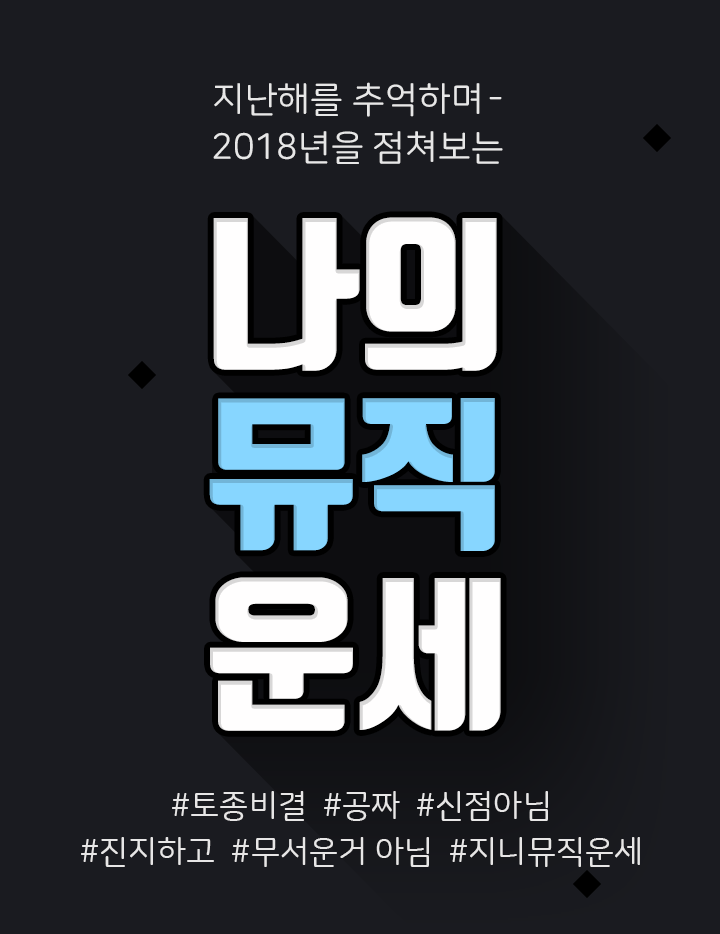
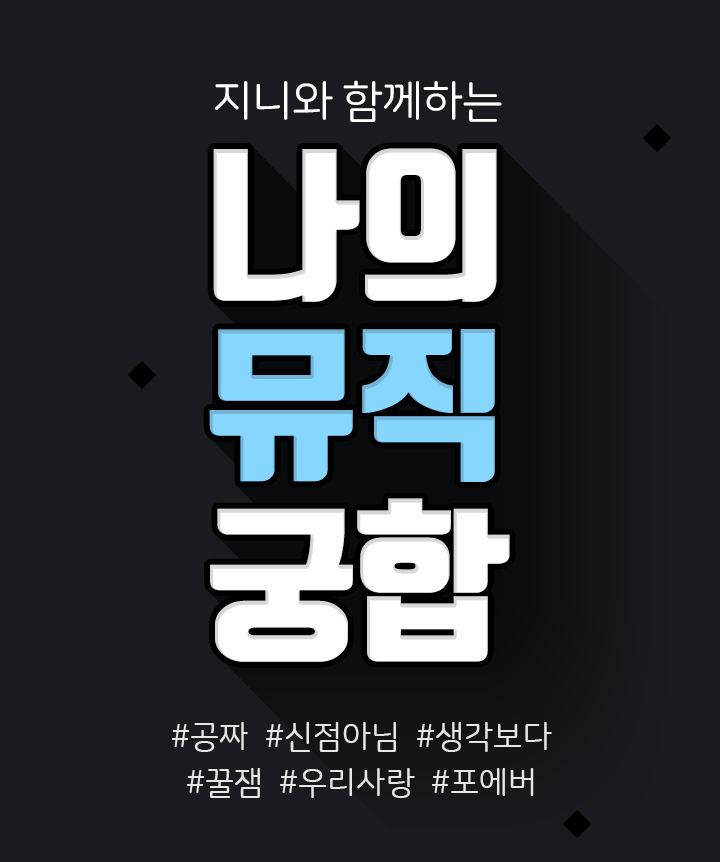
event

diff --git a/css/style.css b/css/style.css
@@ -17,10 +17,10 @@ button::-moz-focus-inner {padding:0;border:0}
 .line-black{border-bottom:1px solid #27282d; line-height:110%;}
 .line-red{border-bottom:1px solid #ff5b62; line-height:110%;}
 .pd20{padding-bottom:20%;}
-button{background:#27282d; border-radius:25px; font-size:16px; line-height:45px; width:100%; color:#fff}
-.ico,
-.music_list .btnarea li button em:after
-{background:url(../img/ico.png) no-repeat 0 0px; background-size:150px; }
+.basic_btn{background:#27282d; border-radius:25px; font-size:16px; line-height:45px; width:100%; color:#fff}
+.basic_btn em{position:relative; padding-right:20px}
+.basic_btn em:after{background:url(../img/ico.png) no-repeat -48px 0; background-size:150px; content:""; position:absolute; right:0; top:2px; width:14px; height:15px;}
+.ico{background:url(../img/ico.png) no-repeat 0 0px; background-size:150px; }
 
 /*	font 설정	*/
 @font-face {
@@ -76,7 +76,9 @@ button{background:#27282d; border-radius:25px; font-size:16px; line-height:45px;
 .star li:nth-child(8){top:69%; left:88%;}
 .star li em{background-position:-22px 0; width:19px; height:16px; display:block; opacity:0;}
 
-section h2{color:#27282d; font-size:25px; text-align:center; padding:0 0 10px; line-height:30px; font-family:NanumSquareB}
+section h2{color:#27282d; font-size:25px; text-align:center; padding:0 0 15px; line-height:33px; font-family:NanumSquareB}
+.before_login{border:3px solid #1a1b20; background:#fff; border-radius:20px; padding:90px 0; text-align:center; font-size:17px; font-family:NanumSquareB}
+.before_login .btnarea{width:157px; margin:0 auto; padding-top:15px}
 
 /* swiper */
 .swiper-container{position:relative;overflow:hidden; z-index:1}
@@ -94,7 +96,7 @@ section h2{color:#27282d; font-size:25px; text-align:center; padding:0 0 10px; l
 .swiper-pagination-bullet-active {width:16px; background:#000;opacity:1; border-radius:20px}
 
 /* top10 */
-.music_list{background:#fff5a1; padding:30px 18px}
+.music_list{background:#fff5a1; padding:40px 18px}
 .music_list .mymusic{border:3px solid #1a1b20; background:#fff; border-radius:20px; padding:8px 0}
 .top10{padding-left:35px; }
 .top10 li{position:relative;height:60px;border-top:1px solid #e9e9e9; padding:0 60px 0 56px;}
@@ -110,26 +112,31 @@ section h2{color:#27282d; font-size:25px; text-align:center; padding:0 0 10px; l
 .music_list .btnarea:after{content:""; display:block; clear:both}
 .music_list .btnarea li{width:50%; float:left; padding-left:4px; box-sizing: border-box;}
 .music_list .btnarea li:first-child{width:50%; float:left; padding:0 4px 0 0;}
-.music_list .btnarea li button em{padding-right:20px; position:relative;}
-.music_list .btnarea li button em:after{background-position:-48px 0; width:13px; height:15px; position:absolute; right:0; top:1px; content:""; }
 .music_list .txt{font-size:13px; text-align:center; padding-top:25px}
 
 /* artist */
-.artist_list{background:#db4a37; padding:30px 0; position:relative;}
+.artist_list.pd{padding:40px 18px}
+.artist_list{background:#db4a37; padding:40px 0; position:relative;}
 .artist_list h2{color:#fff}
-.artist{padding-top:10px}
-.artist li{text-align:center; }
-.artist li .area{width:230px; margin:0 auto; }
-.artist li .thum .win{position:absolute; left:-15px; top:115px; width:210px; height:62px; background:url('../img/ribbon.png') no-repeat 0 0; background-size:100%; text-indent:-9999em; font-weight:normal; opacity:0;filter:progid:DXImageTransform.Microsoft.Alpha(Opacity=0);-webkit-transition:none;transition:none}
-.artist li.swiper-slide-active .win{opacity:1;filter:progid:DXImageTransform.Microsoft.Alpha(Opacity=100); -webkit-transition:opacity 0.5s, ease 0.3s;transition:opacity 0.5s, ease 0.3s;}
-.artist li .thum{width:170px; display:block; margin:0 30px; position:relative;}
-.artist li .thum img{width:164px; height:164px; border: 3px solid #1a1b20; border-radius:50%; }
-.artist li .thum:after{position:absolute; left:0px; top:0px; border-radius:50%; width:100%; height:100%; content:""; background:rgba(0,0,0,0.4); }
-.artist li.swiper-slide-active .thum:after{background:rgba(0,0,0,0);}
-.artist li .thum .num{z-index: 1; width:54px; line-height:54px; background:#fff5a1; font-size:18px; border: 3px solid #1a1b20; border-radius:50%; position:absolute; left:-12px; top:-10px; text-align:center; font-family: NanumSquareB; display:block; opacity:0;filter:progid:DXImageTransform.Microsoft.Alpha(Opacity=0);-webkit-transition:none;transition:none}
-.artist li.swiper-slide-active .num{top:0; opacity:1;filter:progid:DXImageTransform.Microsoft.Alpha(Opacity=100); -webkit-transition:opacity 0.5s, top 0.3s ease;transition:opacity 0.5s, top 0.3s ease;}
+.best_artist{padding-top:10px}
+.best_artist li{text-align:center; }
+.best_artist li .area{width:230px; margin:0 auto; }
+.best_artist li .thum .win{position:absolute; left:-15px; top:115px; width:210px; height:62px; background:url('../img/ribbon.png') no-repeat 0 0; background-size:100%; text-indent:-9999em; font-weight:normal; opacity:0;filter:progid:DXImageTransform.Microsoft.Alpha(Opacity=0);-webkit-transition:none;transition:none}
+.best_artist li.swiper-slide-active .win{opacity:1;filter:progid:DXImageTransform.Microsoft.Alpha(Opacity=100); -webkit-transition:opacity 0.5s, ease 0.3s;transition:opacity 0.5s, ease 0.3s;}
+.best_artist li .thum{width:170px; display:block; margin:0 30px; position:relative;}
+.best_artist li .thum img{width:164px; height:164px; border: 3px solid #1a1b20; border-radius:50%; }
+.best_artist li .thum:after{position:absolute; left:0px; top:0px; border-radius:50%; width:100%; height:100%; content:""; background:rgba(0,0,0,0.4); }
+.best_artist li.swiper-slide-active .thum:after{background:rgba(0,0,0,0);}
+.best_artist li .thum .num{z-index: 1; width:54px; line-height:54px; background:#fff5a1; font-size:18px; border: 3px solid #1a1b20; border-radius:50%; position:absolute; left:-12px; top:-10px; text-align:center; font-family: NanumSquareB; display:block; opacity:0;filter:progid:DXImageTransform.Microsoft.Alpha(Opacity=0);-webkit-transition:none;transition:none}
+.best_artist li.swiper-slide-active .num{top:0; opacity:1;filter:progid:DXImageTransform.Microsoft.Alpha(Opacity=100); -webkit-transition:opacity 0.5s, top 0.3s ease;transition:opacity 0.5s, top 0.3s ease;}
 
-.artist li strong{display:block; padding-top:50px; color:#ffffff; font-size:17px; opacity:0;filter:progid:DXImageTransform.Microsoft.Alpha(Opacity=0);-webkit-transition:none;transition:none}
-.artist li.swiper-slide-active strong{opacity:1;filter:progid:DXImageTransform.Microsoft.Alpha(Opacity=100); -webkit-transition:opacity 1s, ease 1.3s;transition:opacity 1s, ease 1.3s;}
-.artist li strong em{color:#fff5a1}
-.artist_list .swiper-pagination{position:absolute; top:290px;}
+.best_artist li strong{display:block; padding:50px 0 60px; color:#ffffff; font-size:17px; opacity:0;filter:progid:DXImageTransform.Microsoft.Alpha(Opacity=0);-webkit-transition:none;transition:none; line-height: 24px;}
+.best_artist li.swiper-slide-active strong{opacity:1;filter:progid:DXImageTransform.Microsoft.Alpha(Opacity=100); -webkit-transition:opacity 1s, ease 1.3s;transition:opacity 1s, ease 1.3s;}
+.best_artist li strong em{display:inline-block; color:#fff5a1; line-height:24px; max-width: 172px; overflow:hidden; white-space: nowrap; text-overflow:ellipsis; -o-text-overflow:ellipsis; -ms-text-overflow:ellipsis; -moz-text-overflow:ellipsis; }
+.artist_list .swiper-pagination{position:absolute; top:340px;}
+.best_artist li .basic_btn{position:absolute; left:0px; bottom:0px; opacity:0;filter:progid:DXImageTransform.Microsoft.Alpha(Opacity=0);-webkit-transition:none;transition:none}
+.best_artist li.swiper-slide-active .basic_btn{opacity:1;filter:progid:DXImageTransform.Microsoft.Alpha(Opacity=100); -webkit-transition:opacity 1s, ease 1s;transition:opacity 1s, ease 1s;}
+
+/* season */
+.season{background:#403967; padding:40px 18px; position:relative;}
+.season h2{color:#fff}

diff --git a/index.html b/index.html
@@ -27,20 +27,21 @@
 		<li class="ico"><em class="ico"></em></li>
 	</ul>
 	<ul class="tab">
-		<li class="on"><a href="javascript:///">나의 뮤직 운세</a></li>
-		<li><a href="javascript:///">전체회원 뮤직운세</a></li>
+		<li class="on"><a href="javascript:///">나의 뮤직 궁합</a></li>
+		<li><a href="javascript:///">전체회원 뮤직궁합</a></li>
 	</ul>
 </section>
 
 <!-- TOP10 비로그인 -->
 <section class="music_list">
 	<h2>가만보쟈~ genie***님!<br />2017년에 이 곡 많이 들으셨죠?</h2>
-	<div class="mymusic">
-	어서와 지니는 처음이지?^^<br />지니는 2018년도 회원님의 활동을<br />응원합니다! 완!전!
+	<div class="before_login">
+		어서와 지니는 처음이지?^^<br />지니는 2018년도 회원님의 활동을<br />응원합니다! 완!전!
+		<div class="btnarea"><button class="basic_btn"><em>전체재생</em></div>
 	</div>
 </section>
 
-<!-- TOP10 로그인 -->
+<!-- TOP10 -->
 <section class="music_list">
 	<h2>가만보쟈~ genie***님!<br />2017년에 이 곡 많이 들으셨죠?</h2>
 	<div class="swiper-container mymusic">		
@@ -127,7 +128,7 @@
 					<li>
 						<em>9</em>
 						<a href="#" class="info">
-							<span class="thum"><img src="//image.genie.co.kr/Y/IMAGE/IMG_ARTIST/080/221/635/80221635_9_600x600.JPG" alt=""></span>
+							<span class="thum"><img src="///image.genie.co.kr/Y/IMAGE/IMG_ARTIST/041/719/277/41719277_8_600x600.JPG" alt=""></span>
 							<span class="title">곡명리스트곡명</span>
 							<span class="artist">아티스트명</span>
 						</a>
@@ -148,17 +149,26 @@
 	</div>
 	<div class="swiper-pagination"></div>
 	<ul class="btnarea">
-		<li><button><em>전체재생</em></button></li>
-		<li><button>마이앨범에 저장</button></li>
+		<li><button class="basic_btn"><em>전체재생</em></button></li>
+		<li><button class="basic_btn">마이앨범에 저장</button></li>
 	</ul>
 	<p class="txt">마이앨범에 저장 버튼을 선택하시면,<br />최대 100곡까지 확인 가능합니다. </p>
 </section>
-<!--// TOP10 로그인 -->
+<!--// TOP1 -->
+
+<!-- 아티스트 비로그인 -->
+<section class="artist_list pd">
+	<h2>2017년 genie***님의<br />덕력을 자극한 아티스트는<br />이분들 아닙니까?</h2>
+	<div class="before_login">
+		어서와 지니는 처음이지?^^<br />지니는 2018년도 회원님의 활동을<br />응원합니다! 완!전!
+		<div class="btnarea"><button class="basic_btn"><em>전체재생</em></div>
+	</div>
+</section>
 
 <!-- 아티스트 -->
 <section class="artist_list">
-	<h2>덕력을 자극한 아티스트는<br />이분들 아닙니까?</h2>
-	<div class="swiper-container artist">		
+	<h2>2017년 genie***님의<br />덕력을 자극한 아티스트는<br />이분들 아닙니까?</h2>
+	<div class="swiper-container best_artist">		
 		<ul class="swiper-wrapper">
 			<!-- Slides -->
 			<li class="swiper-slide">
@@ -168,31 +178,39 @@
 						<img src="//image.genie.co.kr/Y/IMAGE/IMG_ARTIST/080/220/847/80220847_13_600x600.JPG" alt="">
 						<span class="win">완전소듕!!</span>
 					</span>
-					<strong>오호라!! <em>Wanna One (워너원)~!!!</em><br />genie***님이랑 케미가 좋네!!!<br />새해에도 격하게 아끼면 좋을듯!!</strong>
+					<strong>오호라!! <em>팀명이 얼마나 길까요 나는 몰라요~!!!</em><br />genie***님이랑 케미가 좋네!!!<br />새해에도 격하게 아끼면 좋을듯!!</strong>
+					<button class="basic_btn"><em>아티스트 인기곡 재생</em></button>
 				</div>
 			</li>
 			<li class="swiper-slide">
 				<div class="area">
 					<span class="thum">
 						<em class="num">2위</em>
-						<img src="//image.genie.co.kr/Y/IMAGE/IMG_ARTIST/080/221/635/80221635_9_600x600.JPG" alt="">
+						<img src="//image.genie.co.kr/Y/IMAGE/IMG_ARTIST/041/719/277/41719277_8_600x600.JPG" alt="">
 					</span>
 					<strong>오호라!! <em>Wanna One (워너원)~!!!</em><br />genie***님이랑 케미가 좋네!!!<br />새해에도 격하게 아끼면 좋을듯!!</strong>
+					<button class="basic_btn"><em>아티스트 인기곡 재생</em></button>
 				</div>
 			</li>
 			<li class="swiper-slide">
 				<div class="area">
 					<span class="thum">
 						<em class="num">3위</em>
-						<img src="//image.genie.co.kr/Y/IMAGE/IMG_ARTIST/080/221/635/80221635_9_600x600.JPG" alt="">
+						<img src="//image.genie.co.kr/Y/IMAGE/IMG_ARTIST/041/719/277/41719277_8_600x600.JPG" alt="">
 					</span>
 					<strong>오호라!! <em>Wanna One (워너원)~!!!</em><br />genie***님이랑 케미가 좋네!!!<br />새해에도 격하게 아끼면 좋을듯!!</strong>
+					<button class="basic_btn"><em>아티스트 인기곡 재생</em></button>
 				</div>
 			</li>
-		</ul>    
+		</ul>
 	</div>
-	<div class="swiper-pagination"></div>   
+	<div class="swiper-pagination"></div>
 </section>
+
+<!-- 계절별 -->
+<section class="season">
+	<h2>계절별로 애정했던 곡을<br />족집게처럼 뽑아 봤어요~</h2>
+<section>
 
 <script type="text/javascript">
 $(function() {
@@ -203,7 +221,7 @@ $(function() {
 		loop: true
 	});
 
-	var swiper2 = new Swiper('.artist', {
+	var swiper2 = new Swiper('.best_artist', {
 		pagination: '.artist_list .swiper-pagination',
 		paginationClickable: true,
 		slidesPerView: 1.8,
